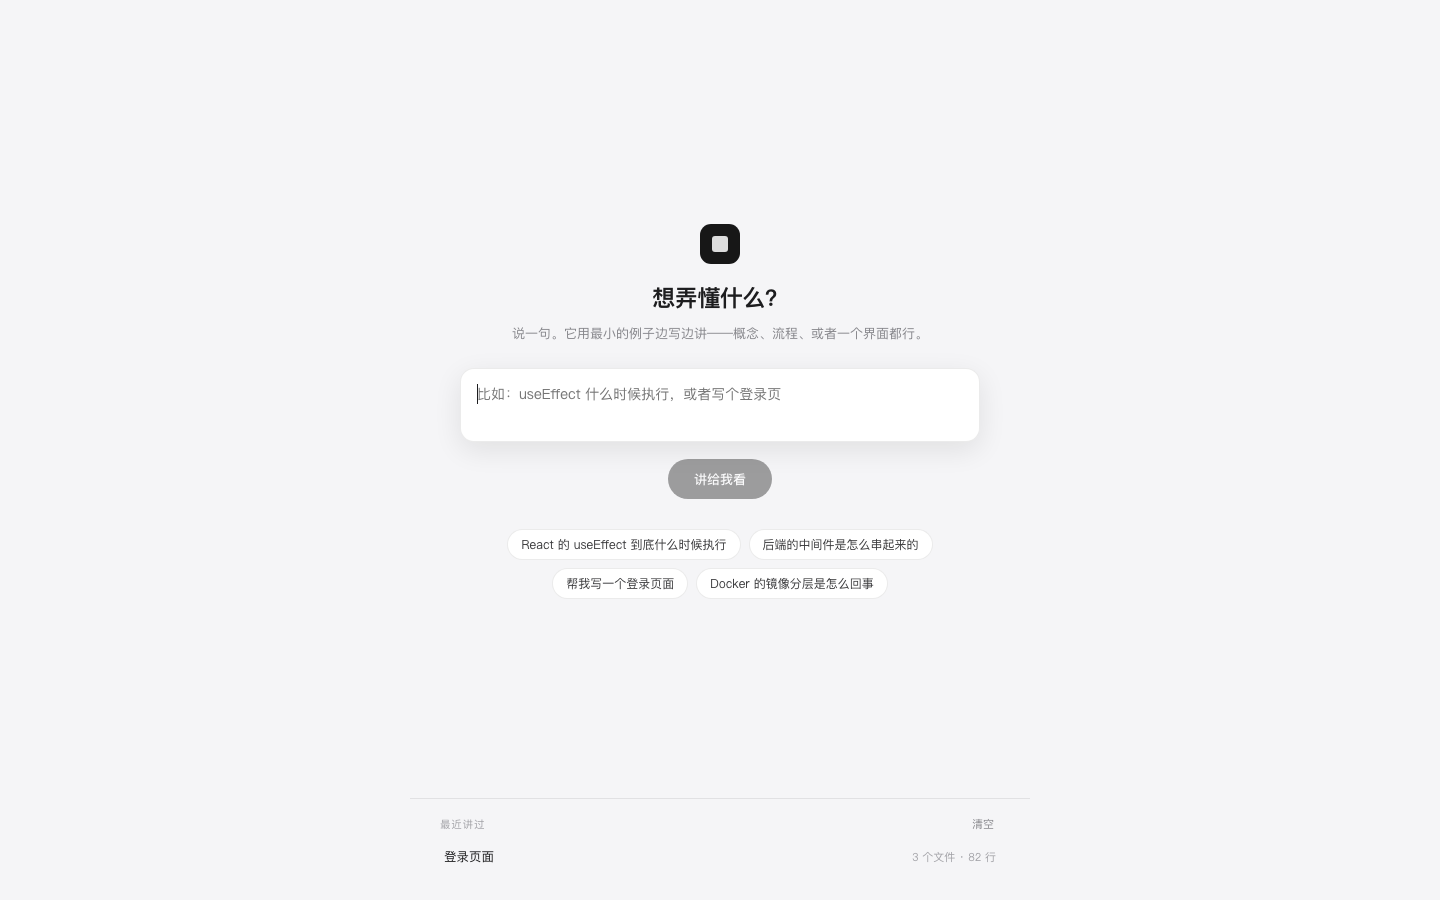
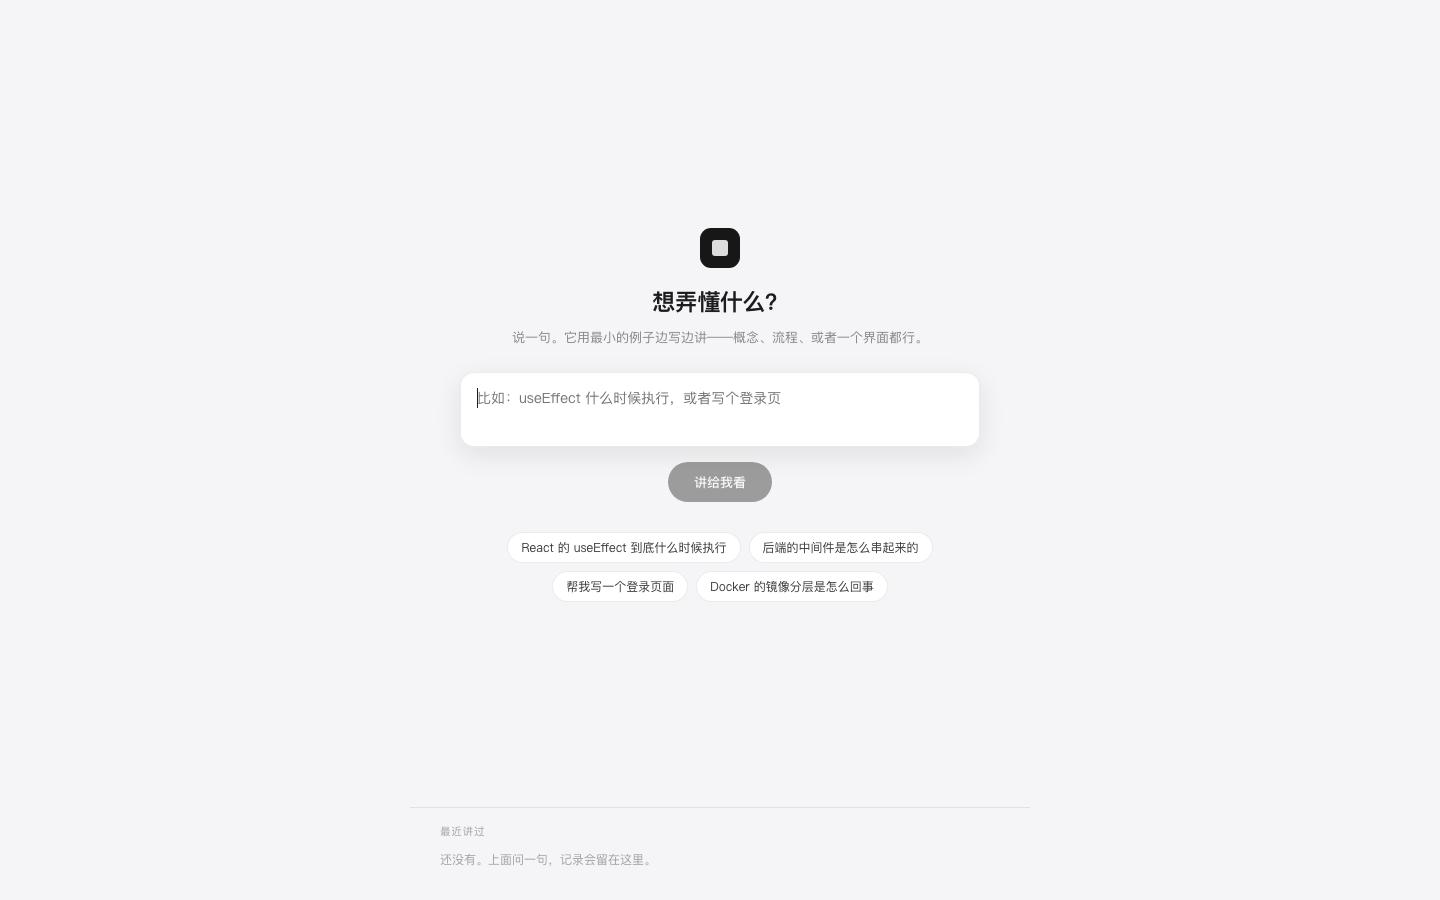
fix: 历史区常驻，不再"有记录才出现"
之前没有历史时整块不渲染，首页看起来和改版前一模一样——用户以为没改。

- 历史区始终存在，空时显示「还没有。上面问一句，记录会留在这里。」
- index.html 加 no-store：前端构建换 hash 文件名，但 HTML 被缓存的话，
  刷新还是跑旧 bundle

diff --git a/web/src/App.tsx b/web/src/App.tsx
@@ -300,10 +300,10 @@ export default function App() {
           </div>
         </div>
 
-        {history.length > 0 && (
-          <section className="ask-history">
-            <div className="history-title">
-              <span>最近讲过</span>
+        <section className="ask-history">
+          <div className="history-title">
+            <span>最近讲过</span>
+            {history.length > 0 && (
               <button
                 className="history-clear"
                 onClick={() => {
@@ -313,7 +313,11 @@ export default function App() {
               >
                 清空
               </button>
-            </div>
+            )}
+          </div>
+          {history.length === 0 ? (
+            <div className="history-empty">还没有。上面问一句，记录会留在这里。</div>
+          ) : (
             <div className="history-list">
               {history.map((item) => (
                 <button
@@ -328,8 +332,8 @@ export default function App() {
                 </button>
               ))}
             </div>
-          </section>
-        )}
+          )}
+        </section>
       </div>
     );
   }

diff --git a/web/src/styles.css b/web/src/styles.css
@@ -737,3 +737,9 @@ button {
 .primary:disabled:hover {
   background: var(--accent);
 }
+
+.history-empty {
+  padding: 6px;
+  font-size: 12px;
+  color: var(--faint);
+}

diff --git a/backend/main.py b/backend/main.py
@@ -47,4 +47,9 @@ if WEB_DIST.exists():
 
     @app.get("/")
     def index() -> FileResponse:
-        return FileResponse(WEB_DIST / "index.html")
+        # 前端每次构建都会换 hash 文件名，但 index.html 本身必须每次重取，
+        # 否则用户刷新后还在跑旧 bundle。
+        return FileResponse(
+            WEB_DIST / "index.html",
+            headers={"Cache-Control": "no-store, must-revalidate"},
+        )
